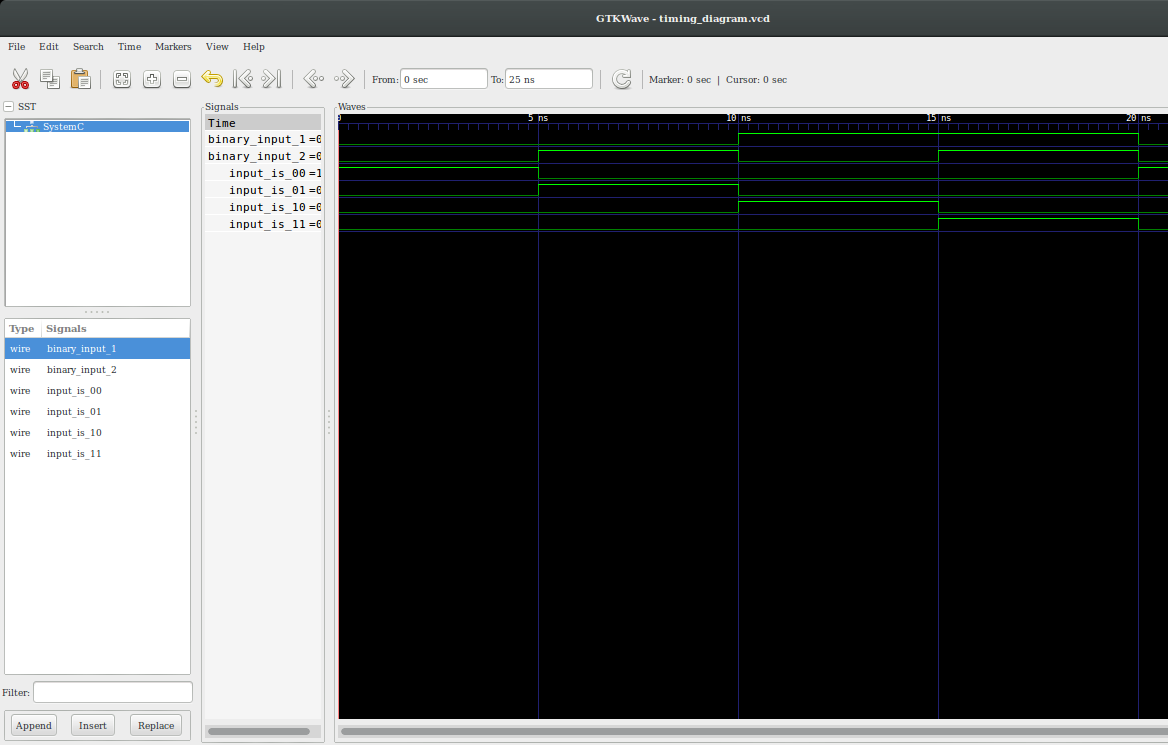
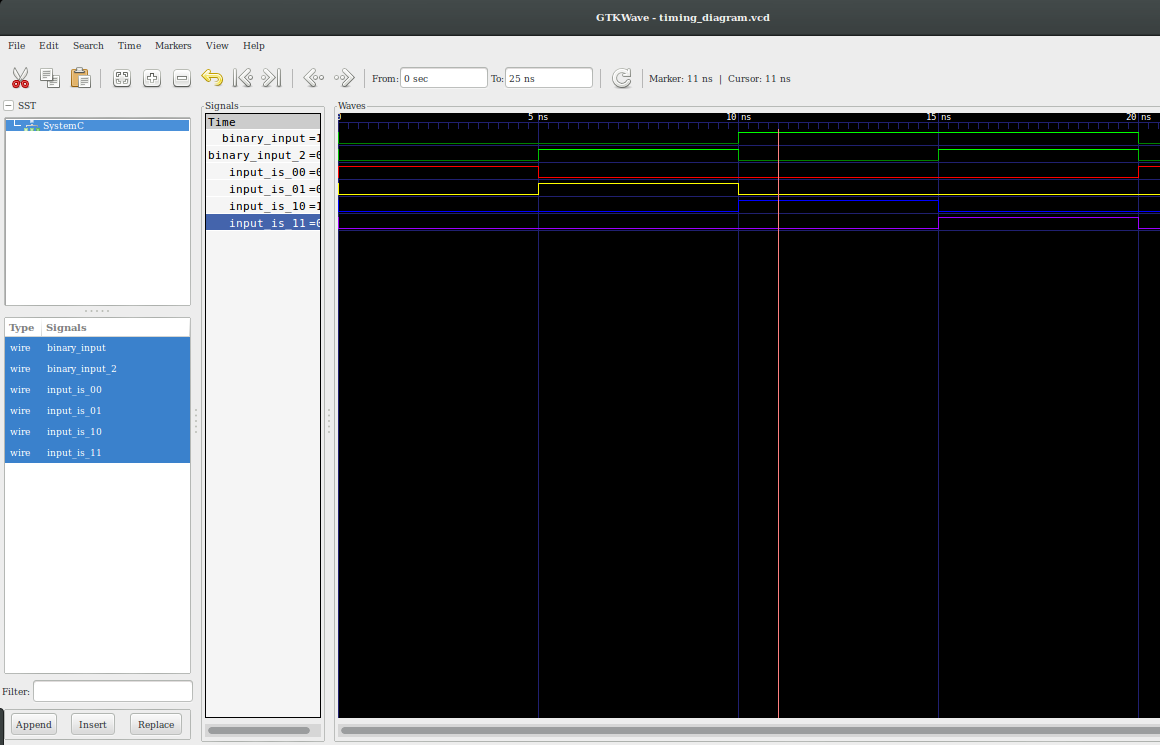
Implementation decoder_2by4 using inverter
Add inverter.h file to project
Implement inverter.h in decoder_1by2.h

Changed region(s): [[0.0, 0.0309, 1.0, 1.0], [0.4966, 0.0, 0.6828, 0.0309]]

diff --git a/decoder2by4/decoder_1by2.cc b/decoder2by4/decoder_1by2.cc
@@ -1,0 +1,94 @@
+/*
+ * decoder_1by2.cc
+ *
+ *  Created on: Mar 4, 2016
+ *      Author: karibe
+ */
+#include"decoder_1by2.h"
+#include"driver.h"
+#include"monitor.h"
+#include<systemc.h>
+
+int sc_main(int argc, char *argv[]){
+//some signals for interconnections
+sc_signal<bool> in1, in2, out1, out2, out3, out4, final_out1, final_out2, final_out3, final_out4;
+//module instances
+decoder dec("decoder_instance_1");
+decoder dec2("decoder_instance_2");
+driver dr("driver");
+
+a_gate gate1("a_gate_instance_1");
+a_gate gate2("a_gate_instance_2");
+a_gate gate3("a_gate_instance_3");
+a_gate gate4("a_gate_instance_4");
+monitor mn("monitor");
+
+//interconnections b2in modules
+//connecting driver ports to signals
+dr.d_a(in1);
+dr.d_b(in2);
+
+//connecting first decoder ports to signals 
+dec.a(in1);
+mn.m_a(in1);
+
+dec.b(out1);
+mn.m_b(final_out1);
+
+dec.c(out2);
+mn.m_c(final_out2); 
+
+//conncecting second decoder ports to signals 
+dec2.a(in2);
+mn.m_d(in2);
+
+dec2.b(out3);
+mn.m_e(final_out3);
+
+dec2.c(out4);
+mn.m_f(final_out4);
+
+//connecting first andgate ports to signals
+gate1.a(out1);
+gate1.b(out3);
+gate1.c(final_out1);
+
+//connecting second andgate ports to signals
+gate2.a(out1);
+gate2.b(out4);
+gate2.c(final_out2);
+
+//connecting third andgate ports to signals
+gate3.a(out2);
+gate3.b(out3);
+gate3.c(final_out3);
+
+//connecting fourth andgate ports to signals
+gate4.a(out2);
+gate4.b(out4);
+gate4.c(final_out4);
+
+//create a trace file with nanosecond resolution
+sc_trace_file *tf;
+tf = sc_create_vcd_trace_file("timing_diagram");
+tf->set_time_unit(1, SC_NS);
+//trace the signals interconnecting modules
+sc_trace(tf, in1, "binary_input"); // first decoder signals to be traced
+sc_trace(tf, final_out1, "input_is_00");
+sc_trace(tf, final_out2, "input_is_01");
+
+sc_trace(tf, in2, "binary_input_2"); // second decoder signals to be traced
+sc_trace(tf, final_out3, "input_is_10");
+sc_trace(tf, final_out4, "input_is_11");
+
+//run a simulation for 20 systemc nano-seconds
+if( !sc_pending_activity() )
+sc_start(25,SC_NS);
+//close the trace file
+sc_close_vcd_trace_file(tf);
+return 0;
+}
+
+
+
+

diff --git a/decoder2by4/decoder_1by2.h b/decoder2by4/decoder_1by2.h
@@ -1,0 +1,40 @@
+/*
+ * decoder_2by4.h
+ *
+ *  Created on: Mar 4, 2016
+ *      Author: karibe
+ */
+
+#ifndef DECODER_1BY2_H_
+#define DECODER_1BY2_H_
+#include"and_gate.h"
+#include"inverter.h"
+#include<systemc.h>
+
+SC_MODULE(decoder){
+//input and output ports
+sc_in<bool> a;
+sc_out<bool> b,c;
+inverter inv;
+//constructor: where the processes are bound to simulation kernel
+SC_CTOR(decoder):inv("inverter_instance"){	
+	//invert signal 'a' and parse it to 'b'
+	inv.x(a);
+	inv.y(b);
+
+	SC_METHOD(decode);
+	sensitive<<a;
+	//dont_initialize();
+}
+
+~decoder(){
+//delete stuff :P
+}
+
+void decode(void){
+	//b=(a==0)?1:0;											
+	c = a;
+}
+};
+
+#endif /* DECODER_2BY4_H_ */

diff --git a/decoder2by4/monitor.h b/decoder2by4/monitor.h
@@ -13,16 +13,16 @@
 using namespace std;
 
 SC_MODULE(monitor){
-sc_in<bool> m_a, m_b, m_c, m_d, m_e, m_f;
+sc_in<bool> m_a, m_b,m_c,m_d,m_e,m_f;
 
 SC_CTOR(monitor){
-		SC_METHOD(monita);
-		sensitive<<m_c<<m_d<<m_e<<m_f;
-		dont_initialize();
+	SC_METHOD(monita);
+	sensitive<<m_b<<m_c<<m_e<<m_f;
+	dont_initialize();
 }
 
 void monita(void){
-cout<<"at "<<sc_time_stamp()<<" inputs are: "<<m_a<<" and "<<m_b<<" outputs are: "<<m_c<<" , "<<m_d<<" , "<<m_e<<" and "<<m_f<<endl;
+cout<<"At "<<sc_time_stamp()<<" inputs are: "<<m_a<<" and "<<m_d<<" outputs are: "<<m_b<<" and "<<m_c<<" and "<<m_e<<" and "<<m_f<<endl;
 }
 };
 #endif /* MONITOR_H_ */

diff --git a/decoder2by4/driver.h b/decoder2by4/driver.h
@@ -11,23 +11,23 @@
 #include<systemc>
 
 SC_MODULE(driver){
-sc_out<bool> d_a,d_b;
+	sc_out<bool> d_a, d_b;
 
-SC_CTOR(driver){
-	SC_THREAD(drive);
-}
-
-void drive(void){
-	while(1){
-		d_a=0; d_b=0;
-		wait(5,SC_NS);
-		d_a=0; d_b=1;
-		wait(5,SC_NS);
-		d_a=1; d_b=0;
-		wait(5,SC_NS);
-		d_a=1; d_b=1;
-		wait(5,SC_NS);
+	SC_CTOR(driver){
+		SC_THREAD(drive);
 	}
-}
+
+	void drive(void){
+		while(1){
+			d_a=0,d_b=0;
+			wait(5,SC_NS);
+			d_a=0,d_b=1;
+			wait(5,SC_NS);
+			d_a=1,d_b=0;
+			wait(5,SC_NS);
+			d_a=1,d_b=1;
+			wait(5,SC_NS);
+		}
+	}
 };
 #endif /* DRIVER_H_ */

diff --git a/decoder2by4/and_gate.h b/decoder2by4/and_gate.h
@@ -1,0 +1,33 @@
+/*
+ * and_gate.h
+ *
+ *  Created on: May 26, 2018
+ *      Author: lundi
+ */
+
+#ifndef AND_GATE_H_
+#define AND_GATE_H_
+#include<systemc.h>
+
+SC_MODULE(a_gate){
+//input and output ports 
+sc_in<bool>a,b;
+sc_out<bool>c;
+//constructor 
+SC_CTOR(a_gate){
+	SC_METHOD(getOutput);
+	sensitive<<a<<b;
+	//dont_initialize();
+}
+
+~a_gate(){
+//delete from memory 
+}
+//method to get the output from 2 inputs
+void getOutput(void){
+	c=(a==1 && b==1)?1:0;
+}
+};
+
+
+#endif /* AND_GATE_H */

diff --git a/decoder2by4/inverter.h b/decoder2by4/inverter.h
@@ -1,0 +1,33 @@
+/*
+ * and_gate.h
+ *
+ *  Created on: May 26, 2018
+ *      Author: lundi
+ */
+
+#ifndef INVERTER_H_
+#define INVERTER_H_
+#include<systemc.h>
+
+SC_MODULE(inverter){
+	//input and output ports 
+	sc_in<bool>x;
+	sc_out<bool>y;
+	//constructor 
+	SC_CTOR(inverter){
+		SC_METHOD(invat);
+		sensitive<<x;
+		//dont_initialize();
+	}
+
+	~inverter(){
+	//delete from memory 
+	}
+	//method to invert the given output
+	void invat(void){
+		y=(x==0)?1:0;
+	}
+};
+
+
+#endif /* INVERTER_H_ */

diff --git a/decoder2by4/README.md b/decoder2by4/README.md
@@ -1,4 +1,4 @@
-This is a 2-by-4 decoder example, which is a makefile project and so no need for an IDE. 
+This is a 1-by-2 decoder example, which is a makefile project and so no need for an IDE. 
 Just cd into this folder and run the command 
 
     make decoder
@@ -7,24 +7,31 @@ Just cd into this folder and run the command
 A line decoder is a device that changes the input code into a set of signals.<br>
 It takes an n-digit binary number and decodes it into 2<sup>n</sup> data lines.
 It does the reverse of encoding. <br>
-In the following is a 2by4 decoder truth table. <br>
+In the following truth table, only the output D0 is high when the input is zero, and the output D1 is high when the input is 1. it decodes a single digit binary number.
+Only one signal is high(selected) when the right binary number is available on the input. <br>
 Its truth table: 
 <p align="left">
   <img src="images/truth_table.png" width="250"/>
 </p>
 
-###Circuit:
+### Circuit:
 <p align="left">
   <img src="images/circuit.gif" width="200"/>
 </p>
 
-Model of computation:
+### Model of computation:
 <p align="left">
   <img src="images/MoC.png" width="400"/>
 </p>
-Results:
+
+### Results:
 The above MOC was implemented in systemc (code in this folder) and the following output found from traced signals.<br>
 Traced signals timing diagram:
 <p align="left">
   <img src="images/timing_diagram.png" width="400"/>
 <p>
+
+### Tutorial 1:
+Create a decoder_2by4 based on this decoder_1by2.<br>
+Reuse the systemc module for decoder_1by2 cascaded to build a more complex module for the decoder_2by4.
+<em>Hint:</em> use additional and logic (AND) gates to determine the final outputs as in the truth table.
